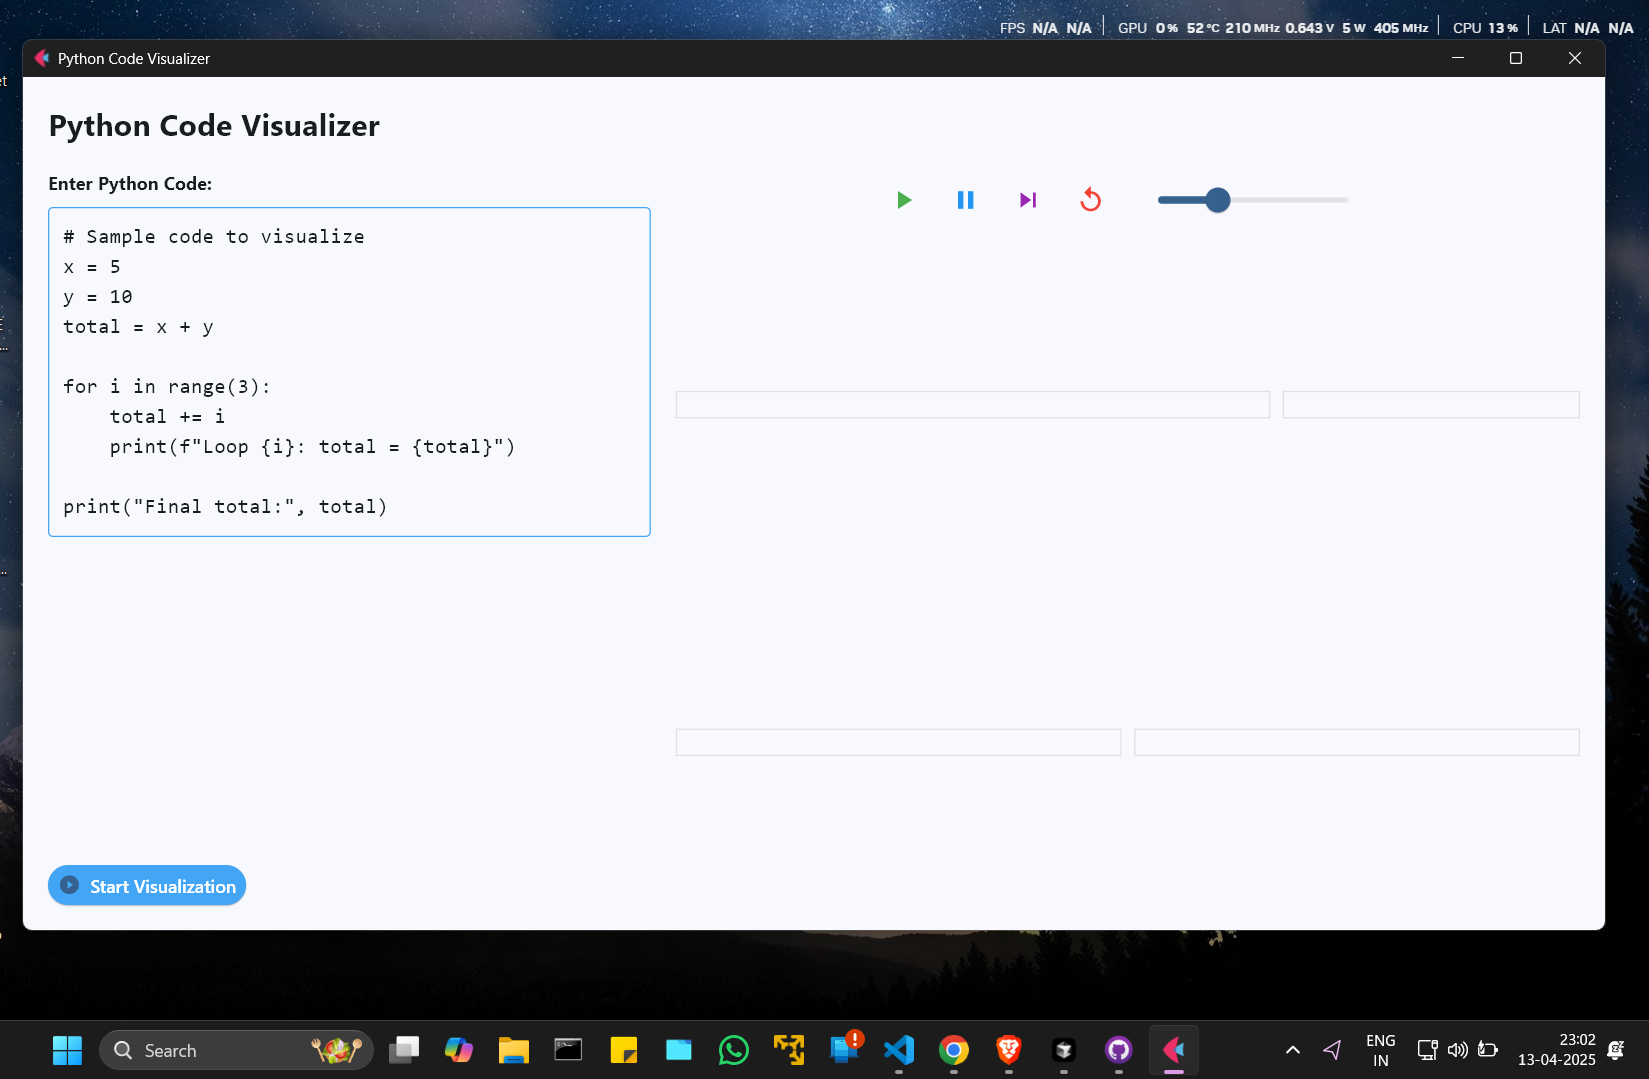
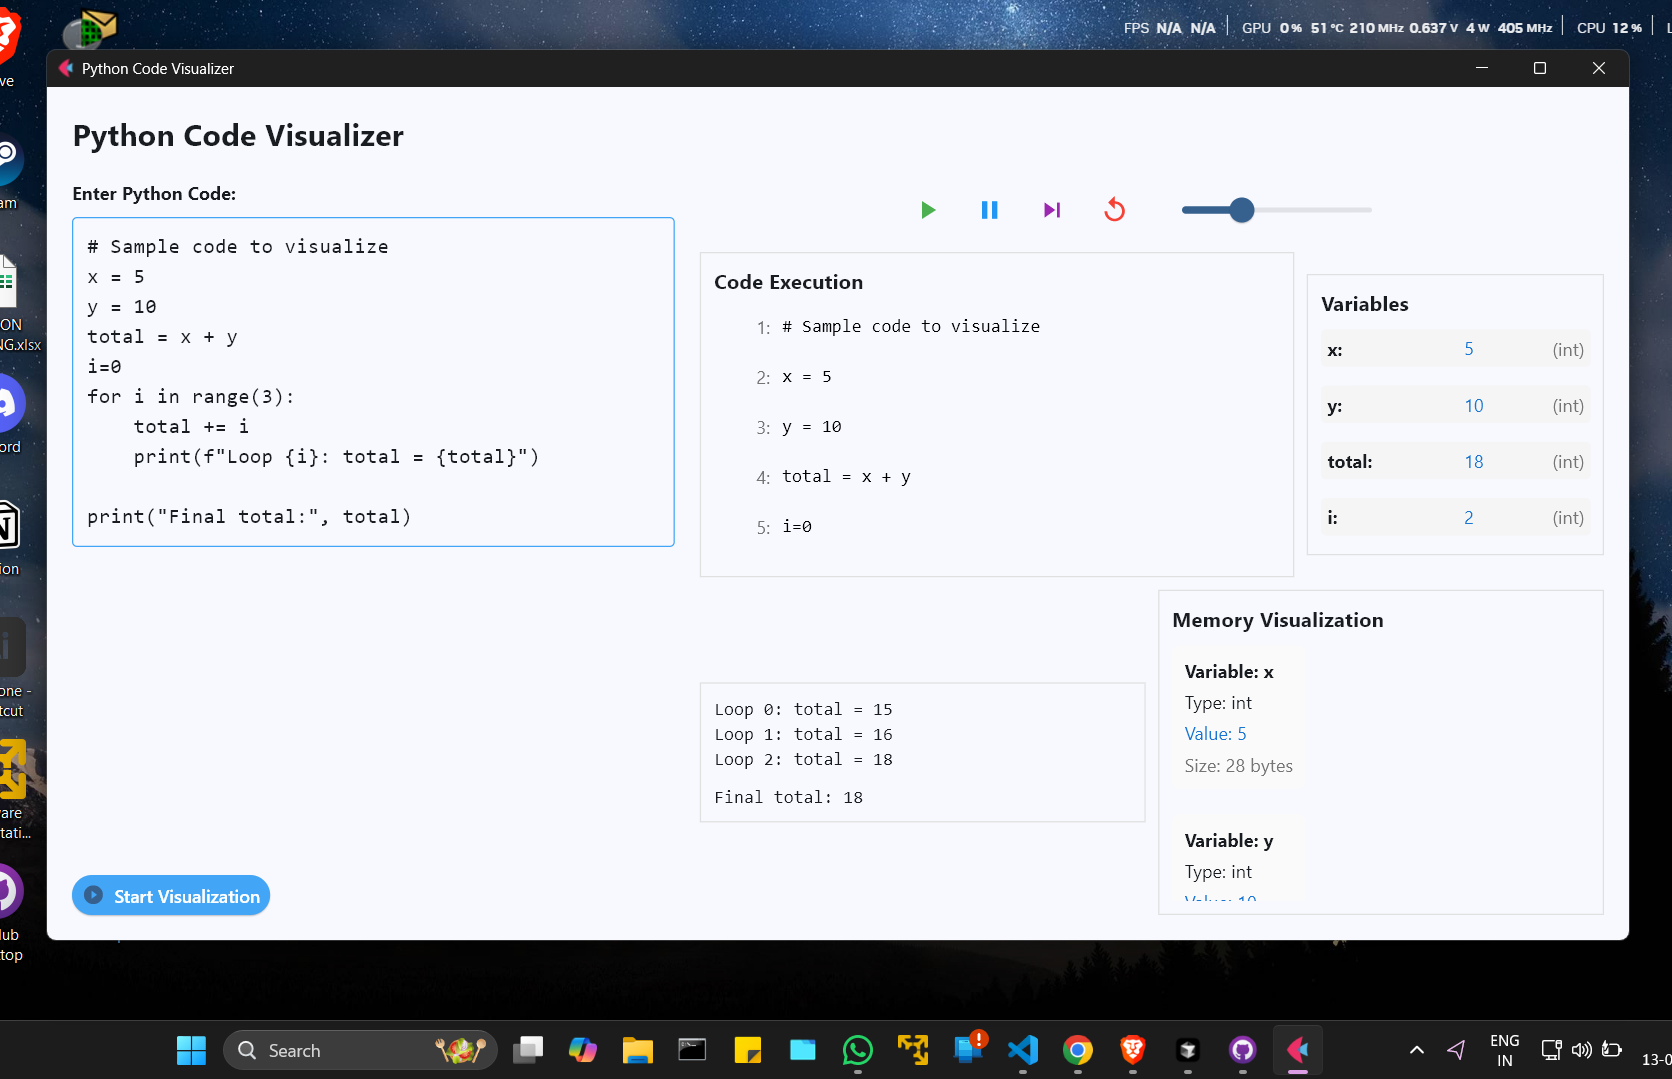
UI

diff --git a/Main.py b/Main.py
@@ -41,7 +41,7 @@ class CodeVisualizer:
 x = 5
 y = 10
 total = x + y
-
+i=0
 for i in range(3):
     total += i
     print(f"Loop {i}: total = {total}")
